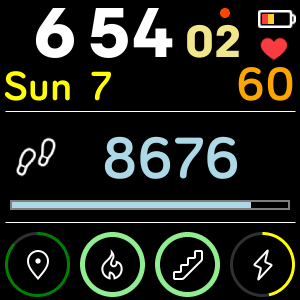
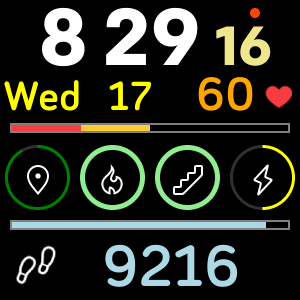
New Layout

diff --git a/app/battery.js b/app/battery.js
@@ -27,9 +27,9 @@ function batteryFill(percentage, maxval, minval, range, multiplier) {
 
 export function setLevel() {
   let charge = Math.round(battery.chargeLevel);
-  batDataR.width = batteryFill(charge, 25, 0, 6, 4);
-  batDataA.width = batteryFill(charge, 50, 25, 6, 4);
-  batDataG.width = batteryFill(charge, 100, 50, 14, 2);
+  batDataR.width = batteryFill(charge, 25, 0, 69, 4);
+  batDataA.width = batteryFill(charge, 50, 25, 69, 4);
+  batDataG.width = batteryFill(charge, 100, 50, 138, 2);
   
   batDataR.style.fill = 'fb-red';
   batDataA.style.fill = 'fb-peach';

diff --git a/resources/styles.css b/resources/styles.css
@@ -25,21 +25,21 @@
 .clock-displayH {
   font-family: Colfax-Bold;
   fill: white;
-  font-size: 70;
+  font-size: 80;
   text-anchor: end;
 }
 
 .clock-displayM {
   font-family: Colfax-Bold;
   fill: white;
-  font-size: 70;
+  font-size: 80;
   text-anchor: middle;
 }
 
 .clock-displayS {
   font-family: Colfax-Bold;
   fill: khaki;
-  font-size: 45;
+  font-size: 55;
   text-anchor: start;
 }
 
